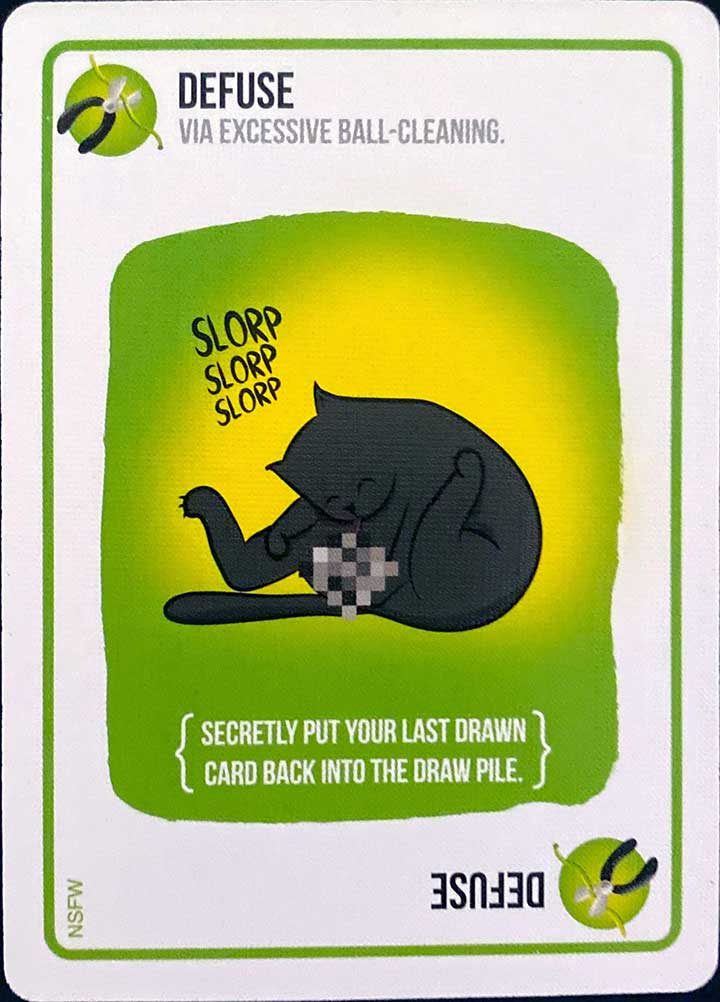
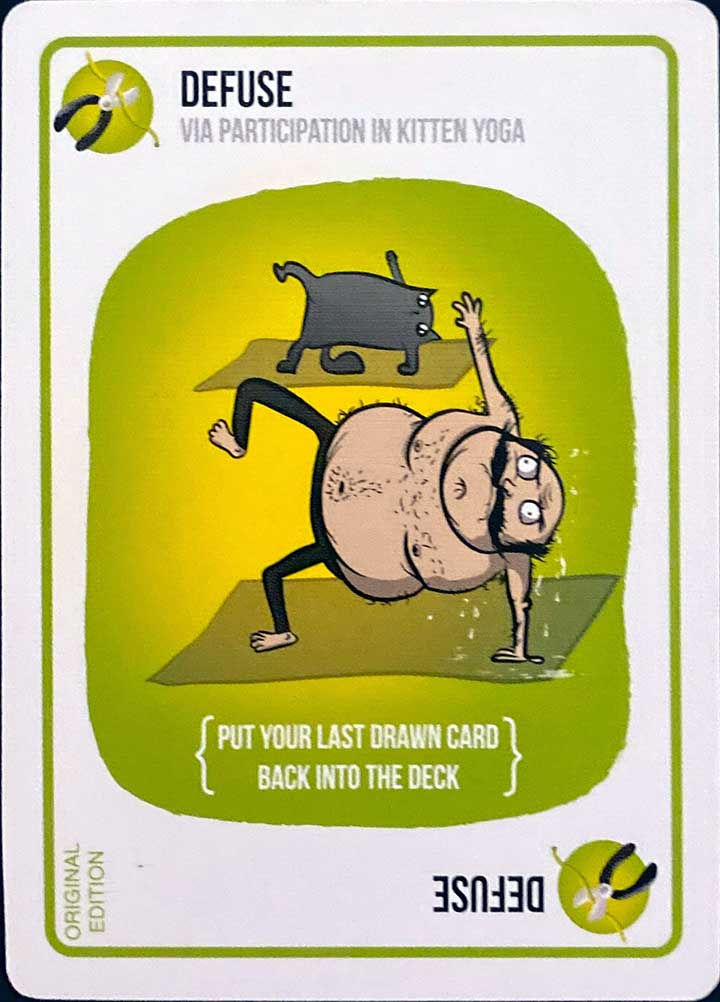
added new cards for expansion imploding kittens

diff --git a/server/src/game/exploding-kittens/setup.ts b/server/src/game/exploding-kittens/setup.ts
@@ -4,7 +4,7 @@ import type { Player } from '../models/Player.ts';
 import type { Room } from '../models/Room.ts';
 import { DeckManager } from '../DeckManager.ts';
 
-const CARD_PATH = '/cards/exploding-kittens';
+const CARD_PATH = '/cards/exploding-kittens/base';
 
 interface CardSpec {
   id: string;
@@ -14,6 +14,8 @@ interface CardSpec {
   description: string;
   copies: number;
   variantCount?: number;
+  extension?: 'jpg' | 'png';
+  path?: string;
 }
 
 const CARD_SPECS: CardSpec[] = [
@@ -131,16 +133,88 @@ const CARD_SPECS: CardSpec[] = [
   },
 ];
 
-function createCards(): Card[] {
-  return CARD_SPECS.flatMap((spec) =>
+const IMPLODING_KITTENS_CARD_SPECS: CardSpec[] = [
+  {
+    id: 'imploding_kitten',
+    name: 'Imploding Kitten',
+    cardType: 'action',
+    effect: 'none',
+    description: 'Carta de Imploding Kittens. Efecto pendiente de implementación.',
+    copies: 1,
+    extension: 'jpg',
+    path: '/cards/exploding-kittens/imploding kittens',
+  },
+  {
+    id: 'alter_the_future',
+    name: 'Alter the Future',
+    cardType: 'action',
+    effect: 'none',
+    description: 'Carta de Imploding Kittens. Efecto pendiente de implementación.',
+    copies: 4,
+    variantCount: 4,
+    extension: 'jpg',
+    path: '/cards/exploding-kittens/imploding kittens',
+  },
+  {
+    id: 'draw_from_the_bottom',
+    name: 'Draw from the Bottom',
+    cardType: 'action',
+    effect: 'none',
+    description: 'Carta de Imploding Kittens. Efecto pendiente de implementación.',
+    copies: 4,
+    variantCount: 4,
+    extension: 'png',
+    path: '/cards/exploding-kittens/imploding kittens',
+  },
+  {
+    id: 'feral_cat',
+    name: 'Feral Cat',
+    cardType: 'cat',
+    effect: 'none',
+    description: 'Carta de Imploding Kittens. Efecto pendiente de implementación.',
+    copies: 1,
+    extension: 'jpg',
+    path: '/cards/exploding-kittens/imploding kittens',
+  },
+  {
+    id: 'reverse',
+    name: 'Reverse',
+    cardType: 'action',
+    effect: 'none',
+    description: 'Carta de Imploding Kittens. Efecto pendiente de implementación.',
+    copies: 4,
+    variantCount: 4,
+    extension: 'jpg',
+    path: '/cards/exploding-kittens/imploding kittens',
+  },
+  {
+    id: 'targeted_attack',
+    name: 'Targeted Attack',
+    cardType: 'action',
+    effect: 'none',
+    description: 'Carta de Imploding Kittens. Efecto pendiente de implementación.',
+    copies: 3,
+    variantCount: 3,
+    extension: 'jpg',
+    path: '/cards/exploding-kittens/imploding kittens',
+  },
+];
+
+function createCards(includeImplodingKittens = false): Card[] {
+  const cardSpecs = includeImplodingKittens
+    ? [...CARD_SPECS, ...IMPLODING_KITTENS_CARD_SPECS]
+    : CARD_SPECS;
+
+  return cardSpecs.flatMap((spec) =>
     Array.from({ length: spec.copies }, (_, index) => {
       const variantNumber = spec.variantCount
         ? (index % spec.variantCount) + 1
         : undefined;
       const variantId = variantNumber ? `${spec.id}_${variantNumber}` : spec.id;
+      const extension = spec.extension ?? 'jpg';
       const filename = variantNumber
-        ? `${spec.id}_${variantNumber}.jpg`
-        : `${spec.id}.jpg`;
+        ? `${spec.id}_${variantNumber}.${extension}`
+        : `${spec.id}.${extension}`;
 
       return {
         uid: `${spec.id}__${index + 1}`,
@@ -148,11 +222,13 @@ function createCards(): Card[] {
         variantId,
         name: spec.name,
         cardType: spec.cardType,
-        image: `${CARD_PATH}/${filename}`,
+        image: `${spec.path ?? CARD_PATH}/${filename}`,
         description: spec.description,
         effect: spec.effect,
         copies: 1,
-        expansion: 'exploding-kittens-base',
+        expansion: spec === CARD_SPECS.find((baseSpec) => baseSpec.id === spec.id)
+          ? 'exploding-kittens-base'
+          : 'imploding-kittens',
       };
     }),
   );
@@ -169,7 +245,7 @@ function resetPlayer(player: Player): Player {
 }
 
 export function createExplodingKittensState(room: Room): GameState {
-  const allCards = createCards();
+  const allCards = createCards(room.expansions?.includes('imploding_kittens'));
   const kittens = allCards.filter((card) => card.id === 'exploding_kitten');
   const defuses = allCards.filter((card) => card.id === 'defuse');
   const drawCards = allCards.filter(

diff --git a/client/src/pages/Lobby.tsx b/client/src/pages/Lobby.tsx
@@ -595,7 +595,7 @@ export default function Lobby() {
                           {game.id === 'unstable-unicorns' || game.id === 'exploding-kittens' ? (
                             <>
                               <img
-                                src={`/covers/${game.id}.jpeg`}
+                                src={`/covers/${game.id}/${game.id}.jpeg`}
                                 alt={`Portada de ${game.name}`}
                                 className="lobby-game-cover absolute inset-0 h-full w-full object-cover object-center"
                               />
@@ -624,7 +624,7 @@ export default function Lobby() {
                 selectedGame && (selectedGame.id === 'unstable-unicorns' || selectedGame.id === 'exploding-kittens') ? (
                   <div className="lobby-game-card relative mx-auto w-1/2 overflow-hidden rounded-2xl">
                     <img
-                      src={`/covers/${selectedGame.id}.jpeg`}
+                      src={`/covers/${selectedGame.id}/${selectedGame.id}.jpeg`}
                       alt={`Portada de ${selectedGame.name}`}
                       className="lobby-game-cover absolute inset-0 h-full w-full object-cover"
                     />
@@ -748,17 +748,19 @@ export default function Lobby() {
                             className={`w-full flex items-center justify-between gap-4 rounded-2xl border text-left transition-all ${
                               active ? 'lobby-expansion-card-selected' : ''
                             } ${
-                              expansion.id === 'rainbow_apocalypse' ? 'relative h-40 w-full max-w-[100px] overflow-hidden p-0' : 'p-4'
+                               (expansion.id === 'rainbow_apocalypse' || expansion.id === 'imploding_kittens') ? 'relative h-40 w-full max-w-[100px] overflow-hidden p-0' : 'p-4'
                             } ${
                               active
                                 ? 'bg-amber-500/10 border-amber-500/40'
                                 : 'bg-slate-900/30 border-slate-800/40'
                             } ${canEditSettings ? 'cursor-pointer hover:border-amber-400/40' : 'cursor-default'}`}
                           >
-                            {expansion.id === 'rainbow_apocalypse' ? (
+                            {expansion.id === 'rainbow_apocalypse' || expansion.id === 'imploding_kittens' ? (
                               <>
                                 <img
-                                  src="/covers/expansions/rainbow-apocalypse.jpeg"
+                                  src={expansion.id === 'rainbow_apocalypse'
+                                    ? '/covers/unstable-unicorns/expansions/rainbow-apocalypse.jpeg'
+                                    : '/covers/exploding-kittens/expansions/imploding-kittens.jpeg'}
                                   alt={`Portada de ${expansion.name}`}
                                   className="lobby-expansion-cover absolute inset-0 h-full w-full object-cover"
                                 />

diff --git a/server/src/games/catalog.ts b/server/src/games/catalog.ts
@@ -48,7 +48,16 @@ export const explodingKittens: GameDefinition = {
       available: true,
     },
   ],
-  expansions: [],
+  expansions: [
+    {
+      id: 'imploding_kittens',
+      gameId: 'exploding-kittens',
+      name: 'Imploding Kittens',
+      description: 'Añade las cartas de la expansión Imploding Kittens al mazo.',
+      versionIds: ['exploding-kittens-base'],
+      available: true,
+    },
+  ],
 };
 
 export const gameRegistry = new GameRegistry();

diff --git a/client/src/components/effects/CardStealEffect.tsx b/client/src/components/effects/CardStealEffect.tsx
@@ -120,7 +120,7 @@ export default function CardStealEffect({ animation, localPlayerId, onDone }: Pr
     <img
       ref={cardRef}
       className={`card-steal-item ${animation.sourcePlayerId === localPlayerId ? 'from-me' : ''}`}
-      src={showCardFace ? animation.card.image : '/cards/base/card_back.png'}
+      src={showCardFace ? animation.card.image : '/cards/unstable-unicorns/base/card_back.png'}
       alt={animation.card.name}
     />
   );

diff --git a/client/src/components/effects/CardDrawEffect.tsx b/client/src/components/effects/CardDrawEffect.tsx
@@ -111,7 +111,7 @@ export default function CardDrawEffect({ animation, localPlayerId, onDone }: Pro
   }, [animation, localPlayerId]);
 
   const isMe = animation.playerId === localPlayerId;
-  const cardSrc = isMe ? animation.card.image : '/cards/base/card_back.png';
+  const cardSrc = isMe ? animation.card.image : '/cards/unstable-unicorns/base/card_back.png';
 
   return (
     <img

diff --git a/client/src/components/card/PlayingCard.tsx b/client/src/components/card/PlayingCard.tsx
@@ -48,7 +48,7 @@ export default function PlayingCard({
       onClick={disabled ? undefined : onClick}
     >
       <img
-        src={isCardBack ? '/cards/base/card_back.png' : image}
+        src={isCardBack ? '/cards/unstable-unicorns/base/card_back.png' : image}
         alt={name}
         draggable={false}
       />

diff --git a/client/src/components/card/PlayingCard.css b/client/src/components/card/PlayingCard.css
@@ -28,7 +28,7 @@
   content: '';
   position: absolute;
   inset: 0;
-  background-image: url('/cards/exploding-kittens/back-card.png');
+  background-image: url('/cards/exploding-kittens/base/back-card.png');
   background-position: center;
   background-repeat: no-repeat;
   background-size: cover;
